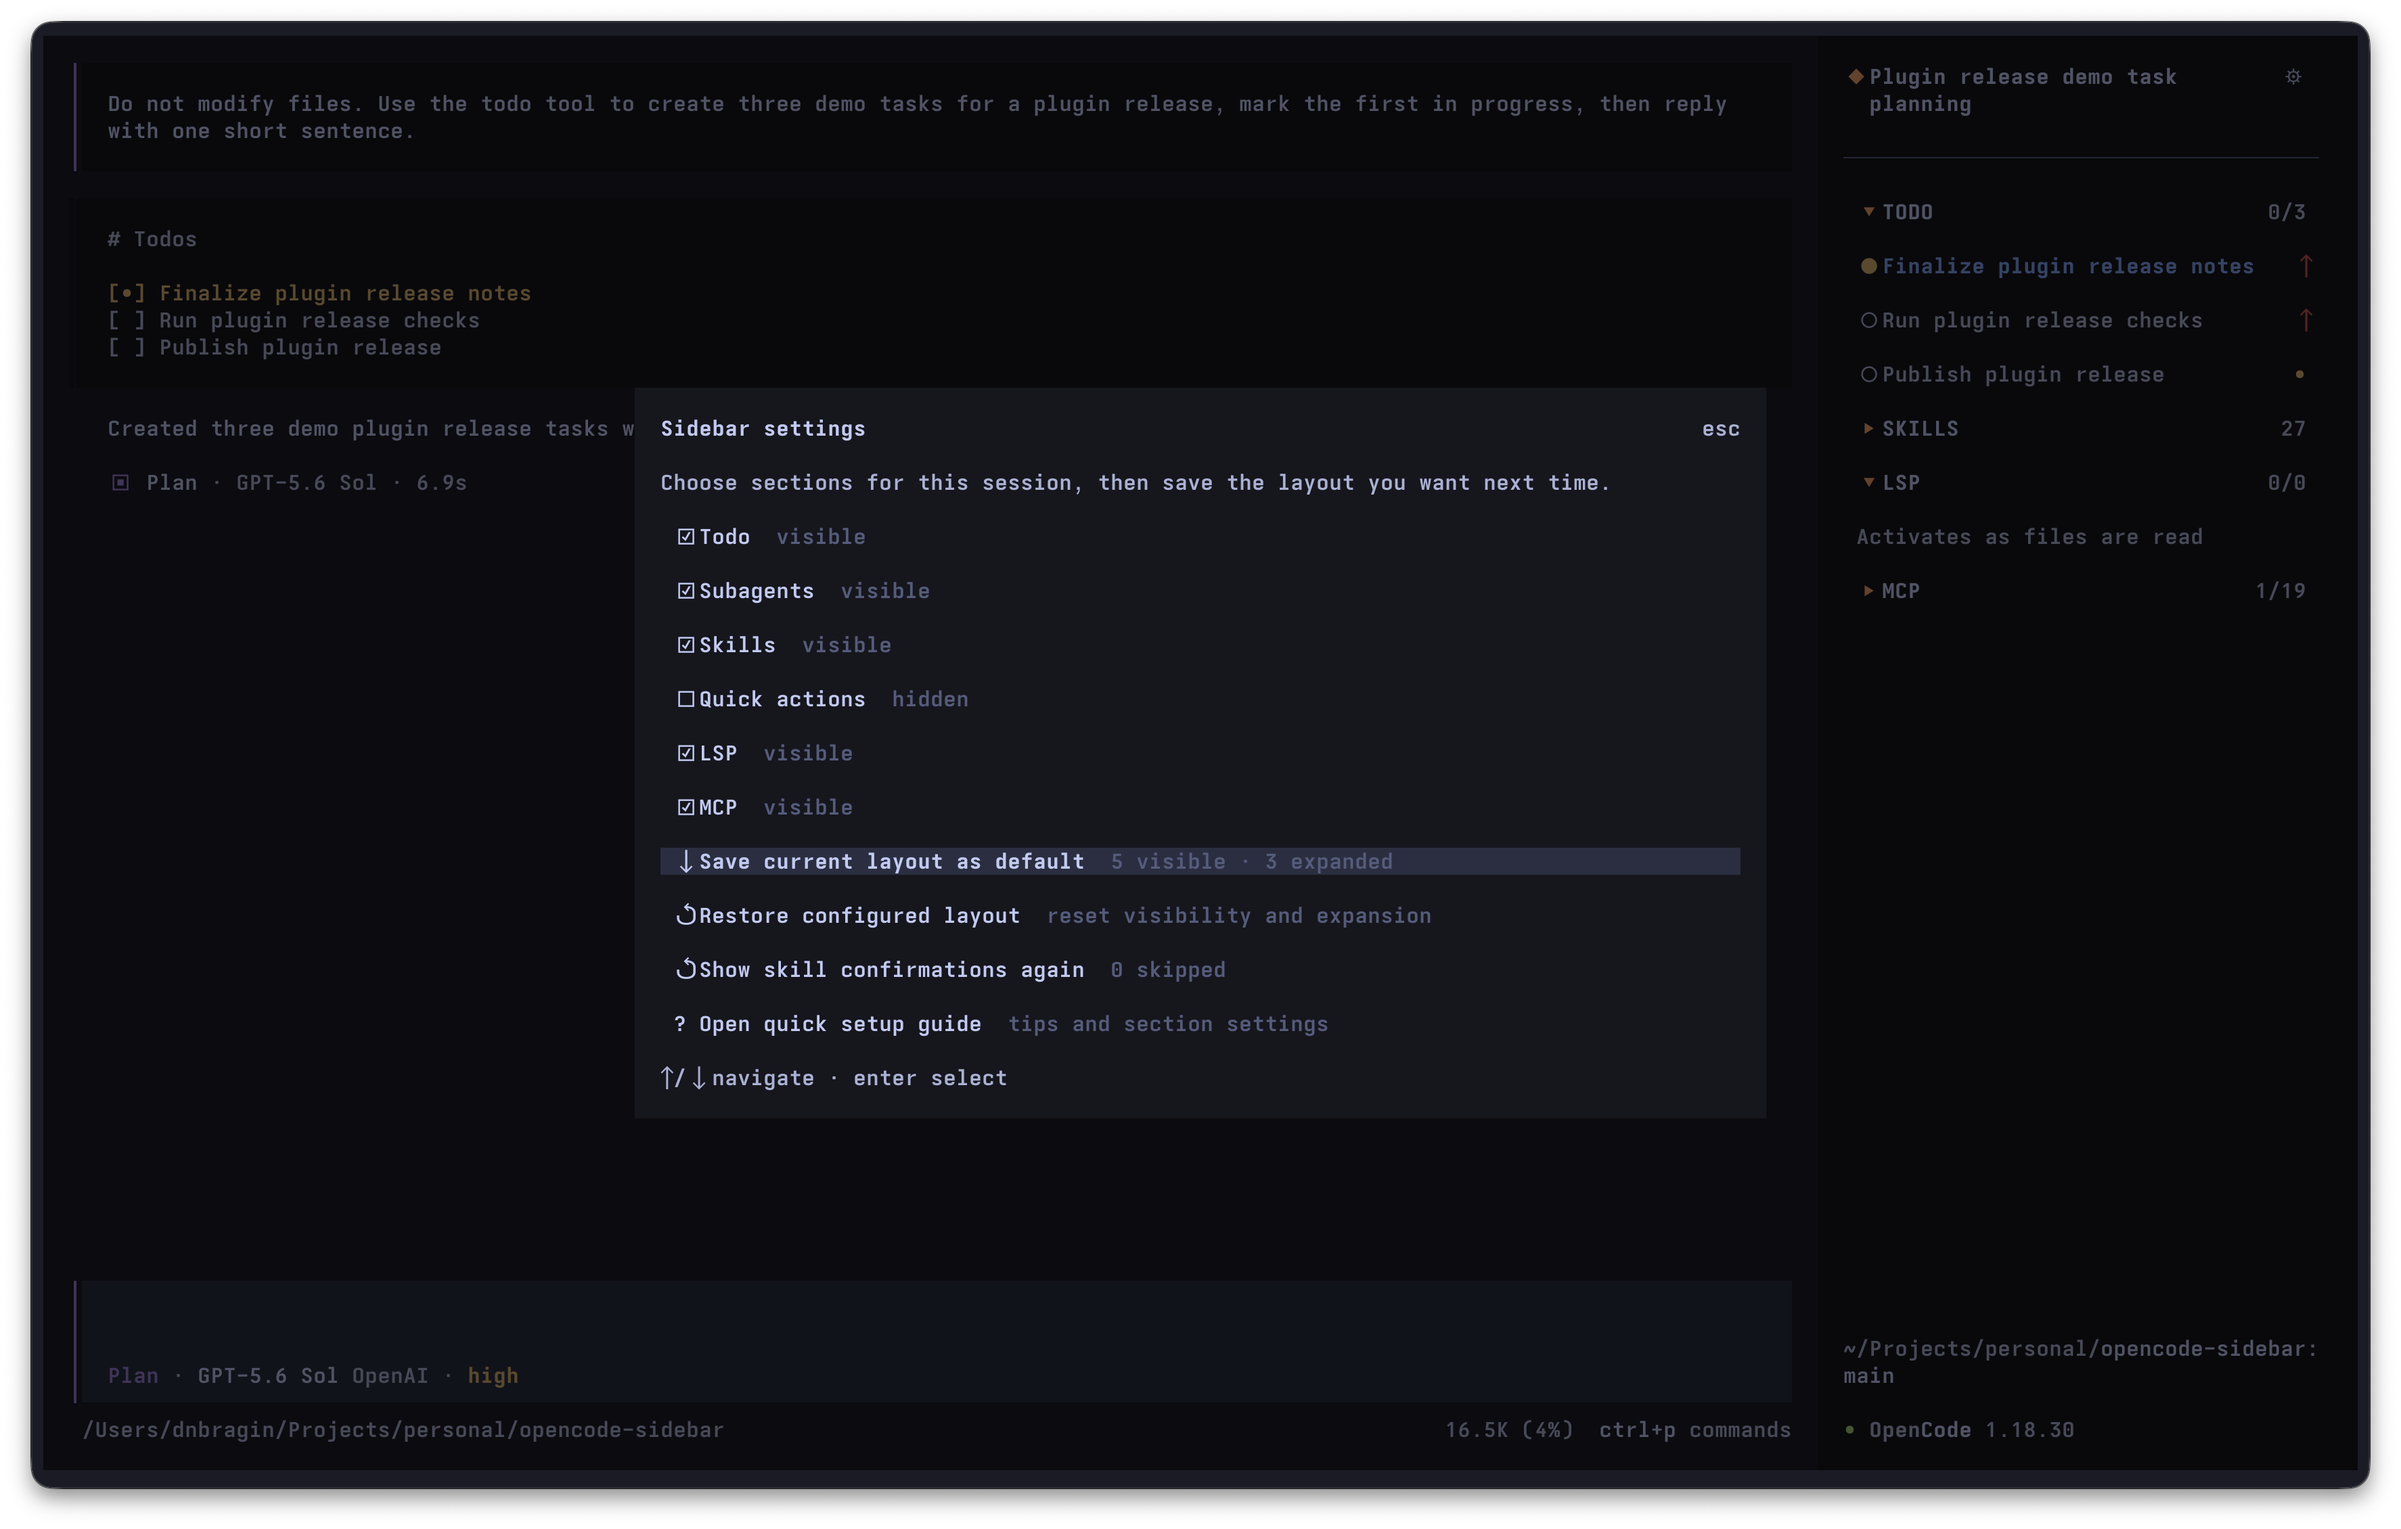
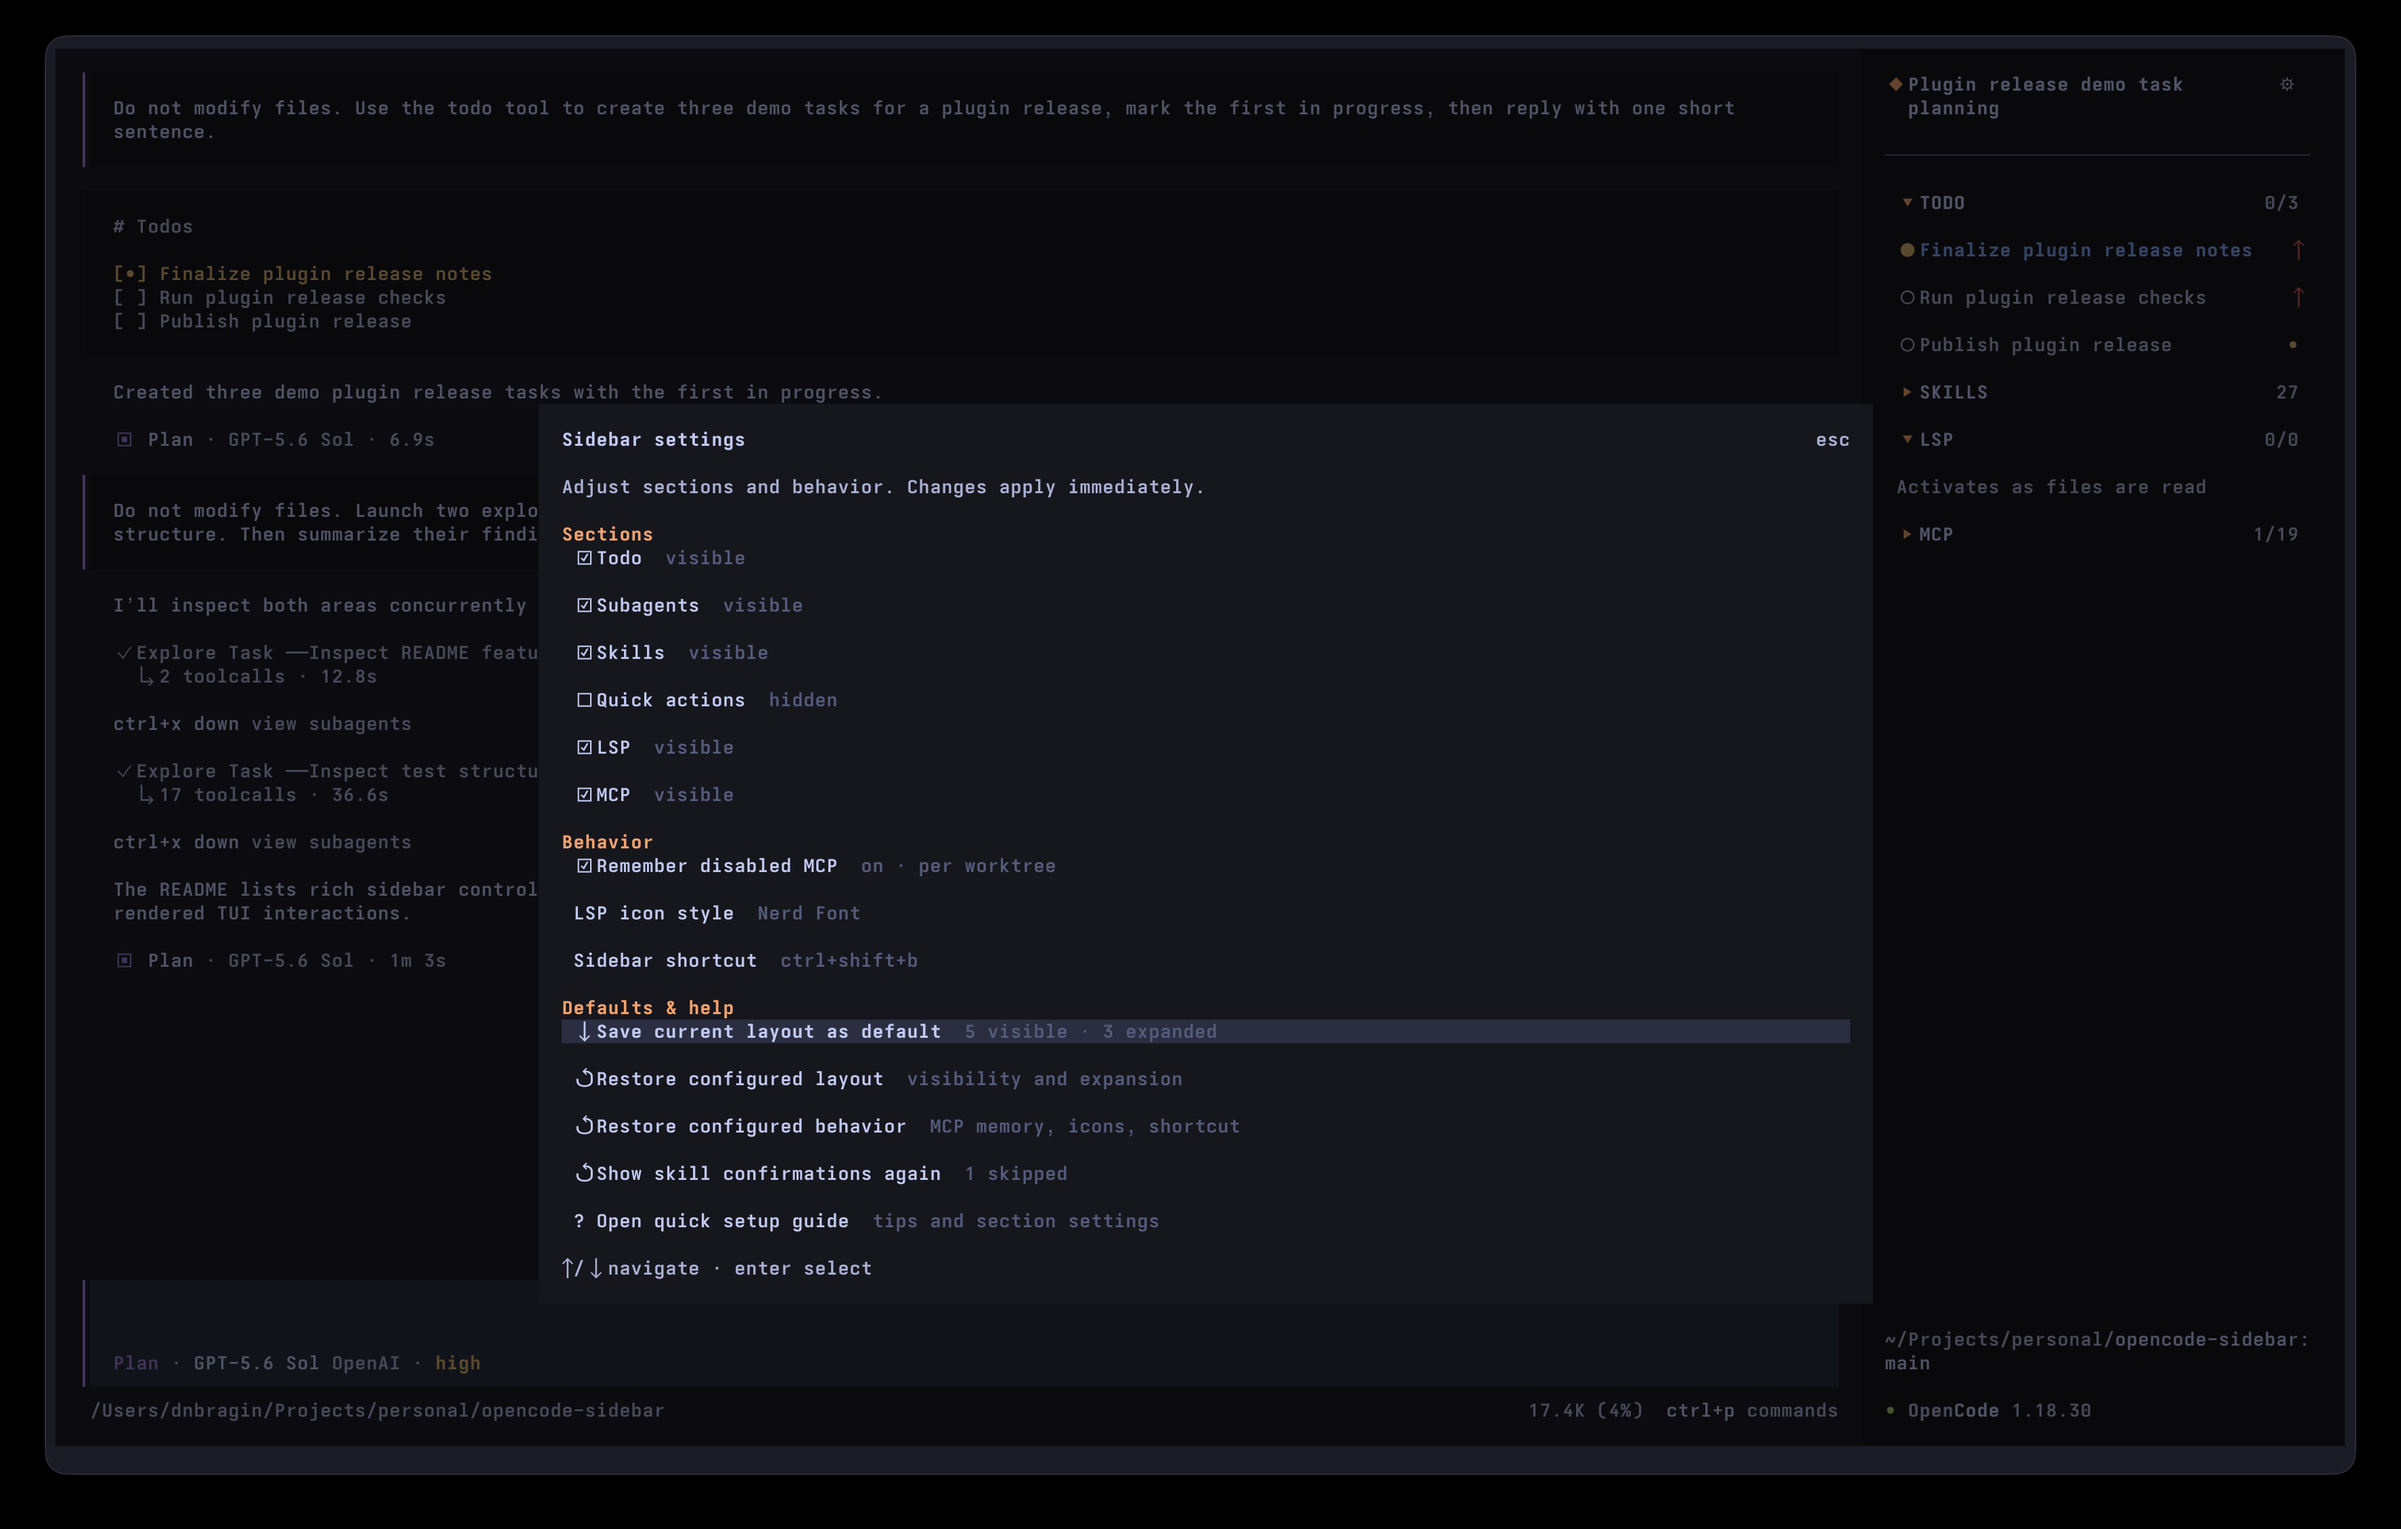
Prepare v0.4.8 release

diff --git a/dev-team-start-here.md b/dev-team-start-here.md
@@ -7,8 +7,8 @@ change in response to user feedback and public OpenCode TUI API capabilities.
 ## Current Release
 
 - Package: `opencode-pretty-sidebar`
-- Released version: `0.4.7`
-- Release commit: `afb5c5c`
+- Released version: `0.4.8`
+- Release tag: `v0.4.8`
 - GitHub: <https://github.com/St1ggy/opencode-pretty-sidebar>
 - npm: <https://www.npmjs.com/package/opencode-pretty-sidebar>
 - Supported OpenCode version: `1.18.30` or newer
@@ -44,33 +44,32 @@ must remove those overrides so future configuration changes are visible again.
 - [x] Add a keymap test that verifies the old shortcut is unregistered when the
   shortcut changes.
 - [x] Add MCP tests for turning remembered state off and back on at runtime.
-- [ ] Verify the grouped dialog fits at the target Ghostty dimensions without
+- [x] Verify the grouped dialog fits at the target Ghostty dimensions without
   clipping and that keyboard navigation skips group headings.
 - [x] Update `README.md` with in-app settings behavior and configuration precedence.
 - [x] Update `ARTICLE.md` so `persist_mcp`, LSP style, and shortcut are described as
   in-app settings rather than configuration-only options.
-- [ ] Recapture the article screenshots in Ghostty, including settings and setup.
-- [ ] Run `bun run check`, `git diff --check`, and `npm pack --dry-run --json`.
+- [x] Recapture the article screenshots in Ghostty, including settings and setup.
+- [x] Run `bun run check`, `git diff --check`, and `npm pack --dry-run --json`.
 
-The built-artifact suite currently passes 36 tests, and the latest
-`bun run typecheck` completed successfully. A final `bun run check` still needs
-to run after visual verification and documentation edits.
+The final built-artifact suite passes 36 tests with 152 assertions, type checking
+passes, and the npm dry-run archive contains only `LICENSE`, `README.md`,
+`dist/tui.js`, and `package.json`.
 
-## Files In Progress
+## Relevant Files
 
 - `src/tui.tsx`: preferences controller, grouped settings dialog, runtime keymap,
   reactive MCP persistence, and reactive LSP icon style.
 - `src/preferences-store.ts`: durable plugin setting overrides and reset behavior.
-- `test/preferences-controller.test.ts`: partially updated controller fixtures.
-- `test/mcp-controller.test.ts`: partially updated MCP persistence fixture.
-- `test/section-interaction.test.tsx`: still needs grouped settings and runtime
-  behavior coverage.
-- `test/preferences-store.test.ts`: still needs setting persistence coverage.
+- `test/preferences-controller.test.ts`: controller persistence and reset coverage.
+- `test/mcp-controller.test.ts`: runtime MCP persistence coverage.
+- `test/section-interaction.test.tsx`: grouped settings and runtime interaction
+  coverage.
+- `test/preferences-store.test.ts`: durable setting persistence coverage.
 - `ARTICLE.md`: article draft for Atushka.
 - `screenshots/`: article screenshots and roadmap artwork.
 
-Do not discard `ARTICLE.md`, `ROADMAP.md`, or `screenshots/`; they are intentional
-untracked work unless they have since been committed.
+`ARTICLE.md`, `ROADMAP.md`, and `screenshots/` are committed project artifacts.
 
 ## Behavioral Requirements
 
@@ -174,10 +173,10 @@ screenshot dimensions.
 - Article draft: `ARTICLE.md`
 - Main sidebar: `screenshots/01-hero-sidebar.png`
 - Built-in sidebar comparison: `screenshots/02-default-sidebar-before.png`
-- Grouped settings: `screenshots/03-layout-settings.png` (must be recaptured)
+- Grouped settings: `screenshots/03-layout-settings.png`
 - Skills search: `screenshots/04-skills-search.png`
 - MCP search: `screenshots/05-mcp-search.png`
-- Setup guide: `screenshots/06-setup-guide.png` (recapture if its copy changes)
+- Setup guide: `screenshots/06-setup-guide.png`
 - Live subagent: `screenshots/07-live-subagent.png`
 - Roadmap artwork: `screenshots/roadmap/opencode-pretty-sidebar-roadmap.png`
 

diff --git a/ARTICLE.md b/ARTICLE.md
@@ -160,7 +160,7 @@ opencode plugin --global opencode-pretty-sidebar
 
 Пакет: [npm](https://www.npmjs.com/package/opencode-pretty-sidebar).
 
-Текущая версия на момент публикации — `0.4.7`.
+Текущая версия на момент публикации — `0.4.8`.
 
 ## Нужен фидбек
 
